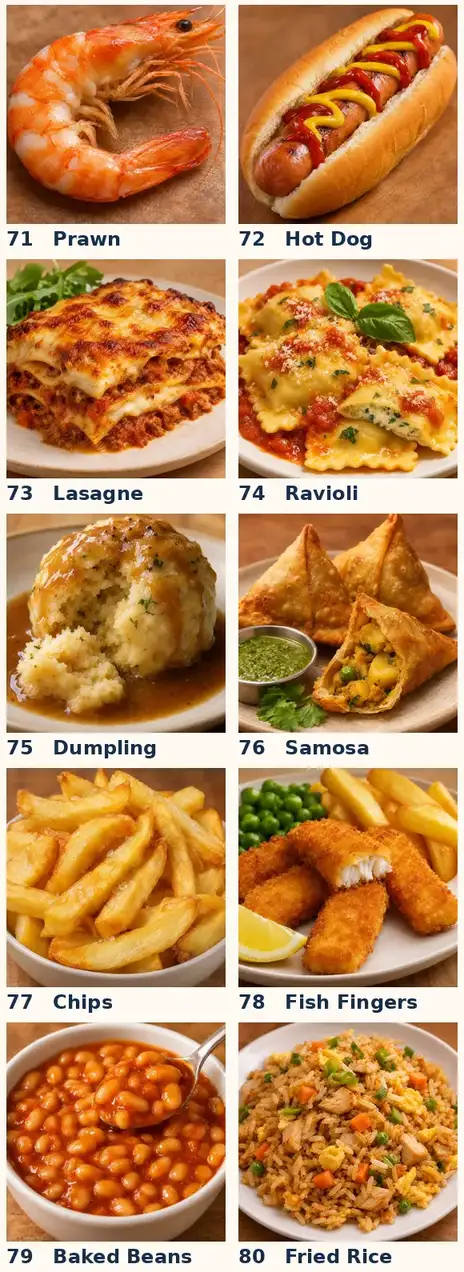
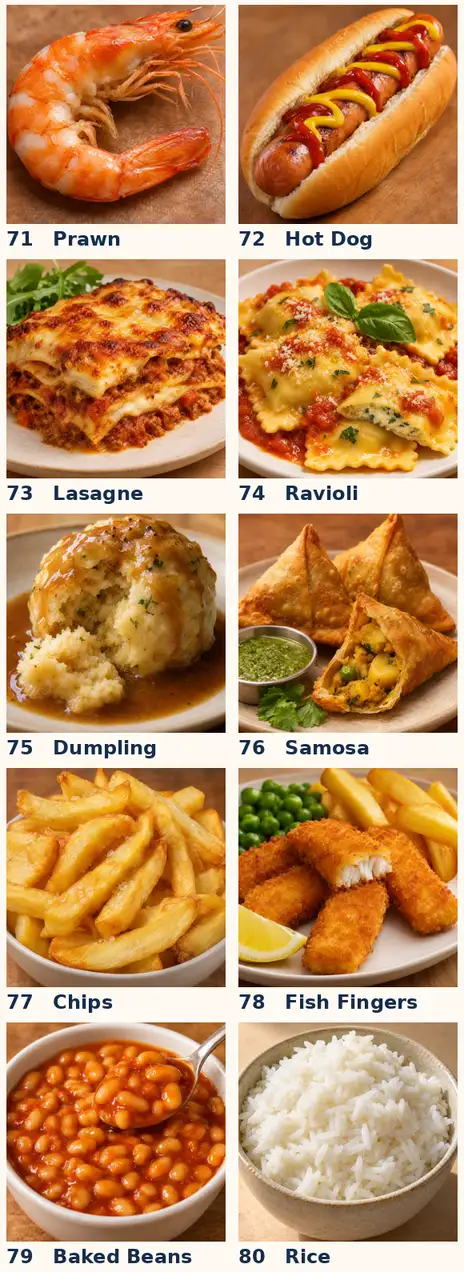
Replace three difficult Food and Drink review clues

diff --git a/review/food-and-drink/index.html b/review/food-and-drink/index.html
@@ -1,1 +1,1 @@
-<!doctype html><html lang="en"><meta charset="utf-8"><meta name="viewport" content="width=device-width,initial-scale=1"><title>Food &amp; Drink · Pic Rivals</title><style>*{box-sizing:border-box}body{max-width:580px;margin:auto;background:#fffaf3;color:#152d4c;font:16px system-ui}header{padding:18px 12px}h1{margin:0;font-size:25px}p{margin:.4em 0 0}img{display:block;width:100%;height:auto}</style><header><h1>Food &amp; Drink</h1><p>100 pictures · 1–22 live · 23–100 for review</p></header><img src="/review/food-and-drink/food-001-010.webp" width="580" height="1590" alt="Apple, Banana, Broccoli, Grapes, Kiwi, Orange, Pear, Pineapple, Popcorn, Pretzel"><img src="/review/food-and-drink/food-011-020.webp" width="580" height="1590" alt="Waffle, Watermelon, Avocado, Burger, Croissant, Ice Cream, Pancakes, Pizza, Spaghetti, Strawberry"><img src="/review/food-and-drink/food-021-030.webp" width="580" height="1590" alt="Sushi, Taco, Lemon, Lime, Cherry, Raspberry, Blueberry, Mango, Coconut, Pomegranate"><img src="/review/food-and-drink/food-031-040.webp" width="580" height="1590" alt="Fig, Papaya, Dragon Fruit, Grapefruit, Peach, Carrot, Cauliflower, Cabbage, Cucumber, Aubergine"><img src="/review/food-and-drink/food-041-050.webp" width="580" height="1590" alt="Chilli, Potato, Onion, Garlic, Leek, Asparagus, Radish, Sweetcorn, Pumpkin, Mushroom"><img src="/review/food-and-drink/food-051-060.webp" width="580" height="1590" alt="Artichoke, Olives, Baguette, Bagel, Doughnut, Muffin, Cupcake, Brownie, Cheesecake, Apple Pie"><img src="/review/food-and-drink/food-061-070.webp" width="580" height="1590" alt="Macaron, Chocolate, Marshmallow, Honey, Cheese, Butter, Egg, Bacon, Sausage, Steak"><img src="/review/food-and-drink/food-071-080.webp" width="580" height="1590" alt="Prawn, Hot Dog, Lasagne, Ravioli, Dumpling, Samosa, Chips, Fish Fingers, Baked Beans, Fried Rice"><img src="/review/food-and-drink/food-081-090.webp" width="580" height="1590" alt="Spring Roll, Onion Rings, Burrito, Nachos, Meatballs, Cornflakes, Crumpet, Tea, Coffee, Hot Chocolate"><img src="/review/food-and-drink/food-091-100.webp" width="580" height="1590" alt="Milkshake, Lemonade, Orange Juice, Milk, Bubble Tea, Water, Coconut Water, Smoothie, Iced Tea, Cola"></html>
+<!doctype html><html lang="en"><meta charset="utf-8"><meta name="viewport" content="width=device-width,initial-scale=1"><title>Food &amp; Drink · Pic Rivals</title><style>*{box-sizing:border-box}body{max-width:580px;margin:auto;background:#fffaf3;color:#152d4c;font:16px system-ui}header{padding:18px 12px}h1{margin:0;font-size:25px}p{margin:.4em 0 0}img{display:block;width:100%;height:auto}</style><header><h1>Food &amp; Drink</h1><p>100 pictures · 1–22 live · 23–100 for review</p></header><img src="/review/food-and-drink/food-001-010.webp" width="580" height="1590" alt="Apple, Banana, Broccoli, Grapes, Kiwi, Orange, Pear, Pineapple, Popcorn, Pretzel"><img src="/review/food-and-drink/food-011-020.webp" width="580" height="1590" alt="Waffle, Watermelon, Avocado, Burger, Croissant, Ice Cream, Pancakes, Pizza, Spaghetti, Strawberry"><img src="/review/food-and-drink/food-021-030.webp" width="580" height="1590" alt="Sushi, Taco, Lemon, Lime, Cherry, Raspberry, Blueberry, Mango, Coconut, Pomegranate"><img src="/review/food-and-drink/food-031-040.webp" width="580" height="1590" alt="Fig, Papaya, Dragon Fruit, Grapefruit, Peach, Carrot, Cauliflower, Cabbage, Cucumber, Aubergine"><img src="/review/food-and-drink/food-041-050.webp" width="580" height="1590" alt="Chilli, Potato, Onion, Garlic, Leek, Asparagus, Radish, Sweetcorn, Pumpkin, Mushroom"><img src="/review/food-and-drink/food-051-060.webp" width="580" height="1590" alt="Artichoke, Olives, Baguette, Bagel, Doughnut, Muffin, Cupcake, Brownie, Cheesecake, Apple Pie"><img src="/review/food-and-drink/food-061-070.webp" width="580" height="1590" alt="Macaron, Chocolate, Marshmallow, Honey, Cheese, Butter, Egg, Bacon, Sausage, Steak"><img src="/review/food-and-drink/food-071-080.webp" width="580" height="1590" alt="Prawn, Hot Dog, Lasagne, Ravioli, Dumpling, Samosa, Chips, Fish Fingers, Baked Beans, Rice"><img src="/review/food-and-drink/food-081-090.webp" width="580" height="1590" alt="Spring Roll, Onion Rings, Burrito, Nachos, Meatballs, Cornflakes, Crumpet, Tea, Coffee, Hot Chocolate"><img src="/review/food-and-drink/food-091-100.webp" width="580" height="1590" alt="Milkshake, Lemonade, Orange Juice, Milk, Bubble Tea, Water, Jelly, Smoothie, Slushie, Cola"></html>
